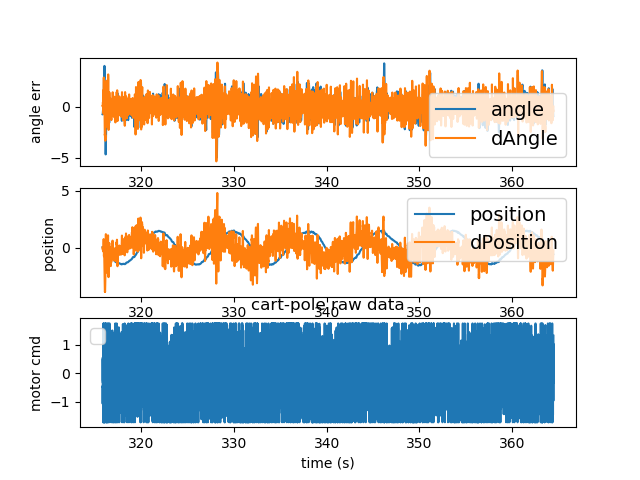
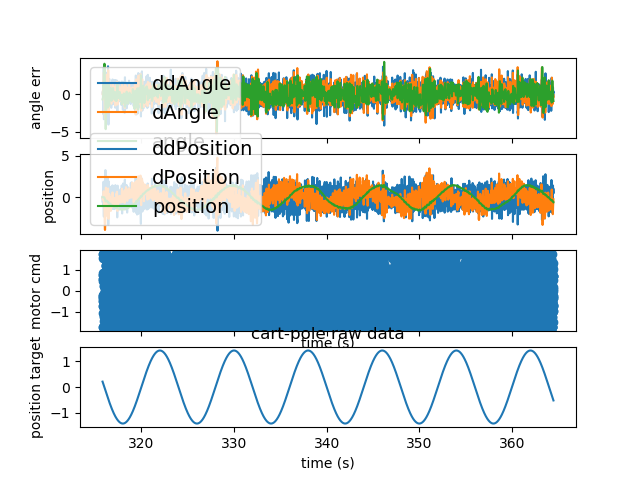
added position target to plots to understand control actions better. Fiddling around with network topology (currently has only FCN at output). fiddling around with loss function (currently uses MSE loss). fiddling around with training sets (currently uses same training and plotting test set)

diff --git a/test_plot.py b/test_plot.py
@@ -28,7 +28,7 @@ if __name__ == '__main__':
     pw_off = args.pw_off  # Length of future in timesteps to predict
     pw_idx = args.pw_idx  # Index of timestep in the prediction window
     seq_len = args.seq_len  # Sequence length
-    test_file = args.test_file
+    test_file = args.train_file
 
     # Plot Settings
     # start_test_tstep = args.start_test_tstep
@@ -171,6 +171,7 @@ if __name__ == '__main__':
     angle_actual = test_actual[ts_actual, actual_dict['angle']].squeeze()  # actual original data of input angle
     position_actual = test_actual[ts_actual, actual_dict['position']].squeeze()  # actual input cart position, normalized to table size by POSITION_LIMIT
     motor_actual = test_actual[ts_actual, actual_dict['actualMotorCmd']].squeeze()  # original input motor cmd
+    positionTarget = test_actual[ts_actual, actual_dict['positionTarget']].squeeze()  # original input motor cmd
 
     # Get Predictions
     ts_pred = np.arange(t_start + pw_off,t_start + pw_off + num_test_tstep)  # prediction timesteps, not quite the same since there is offset and window
@@ -181,7 +182,7 @@ if __name__ == '__main__':
     position_pred = np.squeeze(y_pred[t_start:t_start + num_test_tstep, 0, target_dict['position']])  # prediction of normalized position
 
     # Plot angle error
-    fig1, axs = plt.subplots(3, 1, figsize=(14, 8), sharex=True) # share x axis so zoom zooms all plots
+    fig1, axs = plt.subplots(4, 1, figsize=(14, 8), sharex=True) # share x axis so zoom zooms all plots
     # axs[0].set_title('(a)', fontsize=24)
     axs[0].set_ylabel("angle err (rad)", fontsize=18)
     axs[0].plot(ts_actual, angle_actual, 'k', markersize=12, label='Ground Truth')
@@ -203,11 +204,13 @@ if __name__ == '__main__':
     # plot motor input command
     # axs[2].set_title('(b)', fontsize=24)
     axs[2].set_ylabel("motor (norm)", fontsize=18)
-    axs[2].set_xlabel('Time', fontsize=18)
-    axs[2].set_xlabel('Time (samples, 200/s)', fontsize=18)
     axs[2].plot(ts_actual, motor_actual, 'k', markersize=12, label='motor')
     axs[2].tick_params(axis='both', which='major', labelsize=16)
-    axs[2].legend(fontsize=14)
+
+    axs[3].set_ylabel("position target", fontsize=18)
+    axs[3].set_xlabel('Time (samples, 200/s)', fontsize=18)
+    axs[3].plot(ts_actual, positionTarget, 'k')
+    axs[3].tick_params(axis='both', which='major', labelsize=16)
 
     ########################################################################
     # Slider
@@ -235,9 +238,10 @@ if __name__ == '__main__':
     position_context = position_actual[ts_context]
     position_pred = y_pred[t_start, :, target_dict['position']]
     motor_actual = test_actual[ts_sliderplot, actual_dict['actualMotorCmd']].squeeze()
+    positionTarget = test_actual[ts_sliderplot, actual_dict['positionTarget']].squeeze()
 
     # Draw Plots, from top position, angle, motor
-    fig, axs = plt.subplots(3, 1,figsize=(14, 10), sharex=True)
+    fig, axs = plt.subplots(4, 1,figsize=(14, 10), sharex=True)
     plt.subplots_adjust(left=0.15, right=0.9, bottom=0.3, top=0.9)
     # cart position
     plot1_actual, =     axs[0].plot(ts_sliderplot, position_actual_sliderplot, 'k', lw=3, label='Ground Truth')
@@ -248,7 +252,9 @@ if __name__ == '__main__':
     plot2_context, =    axs[1].plot(ts_context, angle_context, 'g--', lw=6, label='Context')
     plot2_pred, =       axs[1].plot(ts_pred, angle_pred, 'r-', lw=4, label='Prediction')
     # motor
-    plot3_actual, =     axs[2].plot(ts_sliderplot, motor_actual, 'k', lw=3, label='Motor')
+    plot3_actual, =     axs[2].plot(ts_sliderplot, motor_actual, 'k', lw=1, label='Motor')
+    # position target (from  user or dance program)
+    plot4_actual, =     axs[3].plot(ts_sliderplot, positionTarget, 'k', lw=1, label='Motor')
 
     axs[0].set_ylabel("Position (norm)", fontsize=14)
     # axs[0].set_ylim((-2,2))
@@ -260,11 +266,17 @@ if __name__ == '__main__':
     axs[1].legend(fontsize=12)
 
     axs[2].set_ylabel("motor (PWM)", fontsize=14)
-    axs[2].set_xlabel('Timestep (200 Hz)', fontsize=14)
     axs[2].legend(fontsize=12)
+
+    axs[3].set_ylabel("position target", fontsize=14)
+    axs[3].set_xlabel('Timestep (200 Hz)', fontsize=14)
 
     axcolor = 'lightgoldenrodyellow'
     axtstep = plt.axes([0.15, 0.15, 0.75, 0.03], facecolor=axcolor)
+
+    for ax in axs:
+        ax.relim()
+        ax.autoscale_view()
 
     # Sliders
     a0 = 5
@@ -290,6 +302,7 @@ if __name__ == '__main__':
         position_context = position_actual[ts_context]
         position_pred = y_pred[t_start, :, target_dict['position']]
         motor_actual = test_actual[ts_sliderplot, actual_dict['actualMotorCmd']].squeeze()
+        positionTarget = test_actual[ts_sliderplot, actual_dict['positionTarget']].squeeze()
 
         plot1_actual.set_xdata(ts_sliderplot)
         plot1_context.set_xdata(ts_context)
@@ -307,6 +320,9 @@ if __name__ == '__main__':
 
         plot3_actual.set_xdata(ts_sliderplot)
         plot3_actual.set_ydata(motor_actual)
+
+        plot4_actual.set_xdata(ts_sliderplot)
+        plot4_actual.set_ydata(positionTarget)
 
         # https: // stackoverflow.com / questions / 10984085 / automatically - rescale - ylim - and -xlim - in -matplotlib
         for ax in axs:

diff --git a/modules/data.py b/modules/data.py
@@ -132,7 +132,7 @@ def load_data(filepath, cw_plen, cw_flen, pw_len, pw_off, seq_len, stride=1, med
     print('loading data from '+str(filepath))
     df = pd.read_csv(filepath)
 
-    # time,deltaTimeMs,angle,position,angletargets,angleErr,positiontargets,positionErr,angleCmd,positionCmd,motorCmd,actualMotorCmd
+    # time,deltaTimeMs,angle,position,angletargets,angleErr,positionTarget,positionErr,angleCmd,positionCmd,motorCmd,actualMotorCmd
     # 172.2985134124756,4.787921905517578,1699,-418,3129,-1428.0,0,-418.0,573146.4030813494,-8360.0,7055,0
 
 
@@ -172,15 +172,17 @@ def load_data(filepath, cw_plen, cw_flen, pw_len, pw_off, seq_len, stride=1, med
     raw_features.append(sinAngle)
     raw_features.append(cosAngle)
     raw_features.append(dSinAngle)
-    raw_features.append(dSinAngle)
-    raw_features.append(ddSinAngle)
-    raw_features.append(ddCosAngle)
+    raw_features.append(dCosAngle)
     raw_features.append(position)
     raw_features.append(dPosition)
-    raw_features.append(ddPosition)
     raw_features.append(actualMotorCmd)
+    # raw_features.append(ddPosition)
+    # raw_features.append(ddSinAngle)
+    # raw_features.append(ddCosAngle)
+
     raw_features = np.vstack(raw_features).transpose()  # raw_features indexed by [sample, input sensor/control]
-    features_dict={ 'sinAngle':0,'cosAngle':1,'dSinAngle':2,'dCosAngle':3,'ddSinAngle':4,'ddCosAngle':5,'position':6,'dPosition':7,'ddPosition':8,'actualMotorCmd': 9}
+    # add to dict here to allow plotting more easily, don't forget other _dict below
+    features_dict={ 'sinAngle':0,'cosAngle':1,'dSinAngle':2,'dCosAngle':3,'position':4,'dPosition':5,'actualMotorCmd':6,'unused1':7,'unused12':8,'unused3': 9}
 
     # targetss (Label Data)
     raw_targets = []
@@ -188,22 +190,27 @@ def load_data(filepath, cw_plen, cw_flen, pw_len, pw_off, seq_len, stride=1, med
     raw_targets.append(cosAngle)
     raw_targets.append(dSinAngle)
     raw_targets.append(dCosAngle)
-    raw_targets.append(ddSinAngle)
-    raw_targets.append(ddCosAngle)
     # raw_targets.append(angle)
     # raw_targets.append(dAngle)
     raw_targets.append(position)
     raw_targets.append(dPosition)
+    # raw_targets.append(ddSinAngle)
+    # raw_targets.append(ddCosAngle)
+    # raw_targets.append(ddPosition)
     raw_targets = np.vstack(raw_targets).transpose()  # raw_targets indexed by [sample, sensor]
-    targets_dict={ 'sinAngle':0,'cosAngle':1,'dSinAngle':2,'dCosAngle':3,'position':4,'dPosition':5}
+    # add to dict here to allow plotting more easily, don't forget other _dict below
+    targets_dict={ 'sinAngle':0,'cosAngle':1,'dSinAngle':2,'dCosAngle':3,'position':4,'dPosition':5,'unused1':6,'unused12':7,'unused3':8}
 
     # Actual Data for Plotting
     raw_actual = []
     raw_actual.append(angle)
     raw_actual.append(position)
     raw_actual.append(actualMotorCmd)
+    positionTarget =df.positionTarget.to_numpy() / float(POSITION_LIMIT) # user target for cart on table
+    raw_actual.append(positionTarget)
     actual = np.vstack(raw_actual).transpose()  # raw_actual data indexed by [sample, sensor]
-    actual_dict = {'angle': 0, 'position': 1, 'actualMotorCmd': 2}
+    # add to dict here to allow plotting more easily, don't forget other _dict above
+    actual_dict = {'angle': 0, 'position': 1, 'actualMotorCmd': 2, 'positionTarget': 3}
 
     # compute normalization of data now
     mean_features, std_features = computeNormalization(raw_features)

diff --git a/modules/plotrawdata.py b/modules/plotrawdata.py
@@ -40,6 +40,7 @@ if __name__ == '__main__':
     angle, dAngle, ddAngle = filterAndGradients(angle)
     position, dPosition, ddPosition = filterAndGradients(position)
     actualMotorCmd = norm(df.actualMotorCmd.to_numpy())  # zero-centered motor speed command
+    positionTarget= norm(df.positionTarget.to_numpy())  # zero-centered motor speed command
 
     angle=norm(angle)
     dAngle = norm(dAngle)
@@ -48,23 +49,26 @@ if __name__ == '__main__':
     dPosition=norm(dPosition)
     ddPosition=norm(ddPosition)
     dAngle=norm(dAngle)
-    fig, axs = plt.subplots(3, 1, sharex=True) # share x axis so zoom zooms all plots)
-    axs[0].plot(time, angle, label='angle')
-    axs[0].plot(time, dAngle, label='dAngle')
+    fig, axs = plt.subplots(4, 1, sharex=True) # share x axis so zoom zooms all plots)
     axs[0].plot(time, ddAngle, label='ddAngle')
+    axs[0].plot(time, dAngle, label='dAngle')
+    axs[0].plot(time, angle, label='angle')
     axs[0].set_ylabel('angle err')
     axs[0].legend(fontsize=14)
 
-    axs[1].plot(time, position, label='position')
-    axs[1].plot(time, dPosition, label='dPosition')
     axs[1].plot(time, ddPosition, label='ddPosition')
+    axs[1].plot(time, dPosition, label='dPosition')
+    axs[1].plot(time, position, label='position')
     axs[1].set_ylabel('position')
     axs[1].legend(fontsize=14)
 
     axs[2].plot(time, actualMotorCmd,'-o')
     axs[2].set_ylabel('motor cmd')
     axs[2].set_xlabel('time (s)')
-    axs[2].legend(fontsize=14)
+
+    axs[3].plot(time, positionTarget,'-')
+    axs[3].set_ylabel('position target')
+    axs[3].set_xlabel('time (s)')
 
     plt.title('cart-pole raw data')
 

diff --git a/modules/parseArgs.py b/modules/parseArgs.py
@@ -3,8 +3,10 @@ import train
 from modules.util import print_commandline
 import warnings
 
+# TRAIN_FILE_DEFAULT= './data/cartpole-2020-03-09-14-24-21 stock motor PD with dance.csv'
 TRAIN_FILE_DEFAULT= './data/cartpole-2020-03-09-14-43-54 stock motor PD control w dance and steps.csv'
 VAL_FILE_DEFAULT= './data/cartpole-2020-03-09-14-21-24 stock motor PD angle zero correct.csv'
+# TEST_FILE_DEFAULT= './data/cartpole-2020-03-09-14-43-54 stock motor PD control w dance and steps.csv'
 TEST_FILE_DEFAULT= './data/cartpole-2020-03-09-14-24-21 stock motor PD with dance.csv'
 
 def args():

diff --git a/train.py b/train.py
@@ -276,8 +276,8 @@ if __name__ == '__main__':
     optimizer = optim.Adam(net.parameters(), amsgrad=True, lr=lr)
 
     # Select Loss Function
-    criterion = nn.L1Loss()  # L1 loss function
-    # criterion = nn.MSELoss()  # Mean square error loss function
+    # criterion = nn.L1Loss()  # L1 loss function
+    criterion = nn.MSELoss()  # Mean square error loss function
 
     ########################################################
     # Training

diff --git a/modules/models.py b/modules/models.py
@@ -84,8 +84,8 @@ class Model(nn.Module):
              )
         self.fc = nn.Sequential(
             nn.Linear(in_features=self.cla_size, out_features=self.cla_size, bias=True),
-            nn.ReLU(),
-            nn.Dropout(p=0.5),
+            # nn.ReLU(), # TODO tobi removed relu and extra readout layer
+            # nn.Dropout(p=0.5),
             nn.Linear(in_features=self.cla_size, out_features=num_classes, bias=True)
         )
 
